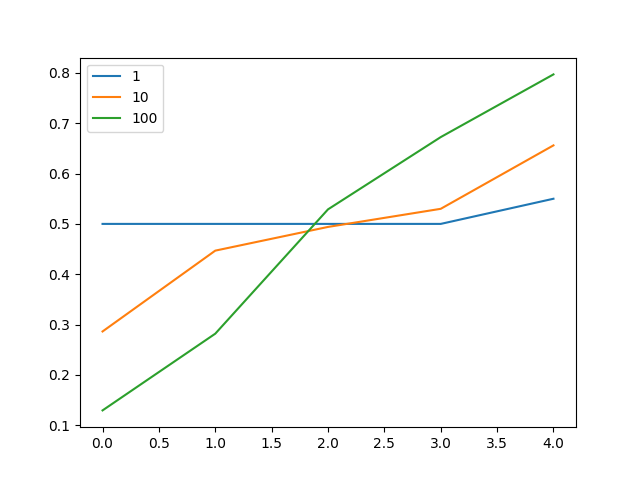
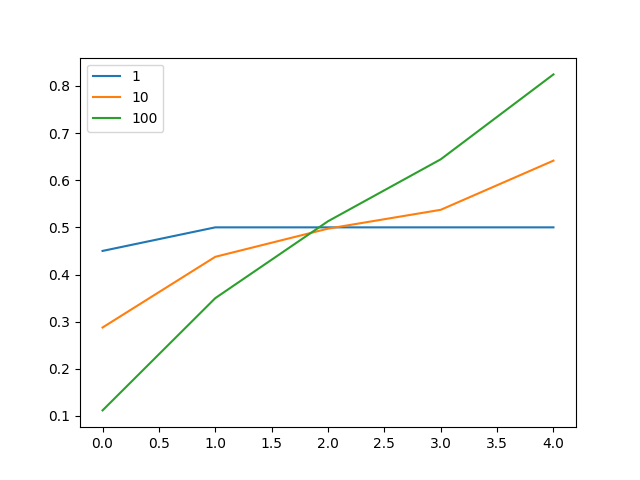
finished section 6.2

diff --git a/Temporal-Difference Learning/random_walk.py b/Temporal-Difference Learning/random_walk.py
@@ -3,6 +3,7 @@
 import numpy as np
 import matplotlib.pyplot as plt
 
+runs = 100
 episodes = 100
 gamma = 1
 
@@ -12,22 +13,23 @@ class WalkMRP():
         self.state = 3 # 'C'
         self.np_random = np.random.RandomState()
 
+        self.true_values = np.array([0, 1/6, 2/6, 3/6, 4/6, 5/6, 0])
+
     # returns reward, done
     def step(self):
         step = self.np_random.choice([-1, 1])
         self.state += step
         if self.states[self.state] == 'One':
-            self.state = 2 # reset
+            self.state = 3 # reset
             return 1, True
         if self.states[self.state] == 'Zero':
-            self.state = 2 # reset
+            self.state = 3 # reset
             return 0, True
         return 0, False
 
-def td(alpha):
-    env = WalkMRP()
-    V = np.zeros(len(env.states))
-    V[1:-1] = 0.5
+# generator that yields the value function at each step of the episode
+# td(0) prediction
+def td_episodes(V, env, alpha):
     for episode in range(episodes):
         done = False
         state = env.state
@@ -41,10 +43,59 @@ def td(alpha):
 
             V[state] += alpha*td_error
             state = next_state
+        yield V[1:-1]
+
+# every visit monte-carlo prediction
+def mc_episodes(V, env, alpha):
+    for episode in range(episodes):
+        trajectory = get_mc_trajectory(env)
+        G = 0
+        for i in range(len(trajectory)-1, -1, -1): # for each step in trajectory, from last to first
+            state, reward = trajectory[i]
+            G = reward + gamma*G
+            V[state] += alpha*(G - V[state])
+        yield V[1:-1]
+
+def get_mc_trajectory(env):
+    trajectory = []
+    done = False
+    while not done:
+        state = env.state
+        reward, done = env.step()
+        trajectory.append((state,reward))
+    return trajectory
+
+def td(alpha):
+    env = WalkMRP()
+    V = np.zeros(len(env.states))
+    V[1:-1] = 0.5
+    epi_gen = td_episodes(V, env, alpha)
     
+    for episode,v in enumerate(epi_gen):
         if (episode+1) in [1,10,100]:
-            plt.plot(range(5), V[1:-1], label=str(episode+1))
+            plt.plot(range(5), v, label=str(episode+1))
+    
     plt.legend()
     plt.show()
 
-td(.1)
+
+def plot_error(alpha, gen_fn, name):
+    rms_error = np.zeros((runs,episodes))
+    for run in range(runs):
+        env = WalkMRP()
+        V = np.zeros(len(env.states))
+        V[1:-1] = 0.5
+        epi_gen = gen_fn(V, env, alpha)
+        for episode,v in enumerate(epi_gen):
+            rms_error[run, episode] = np.sqrt(np.average((v - env.true_values[1:-1])**2))
+    plt.plot(range(episodes), np.average(rms_error, axis=0), label=name+str(alpha))
+
+
+for alpha in [.05, .1, .15]:
+    plot_error(alpha, td_episodes, "td ")
+
+for alpha in [.01, .02, .03, .04]:
+    plot_error(alpha, mc_episodes, "mc ")
+
+plt.legend()
+plt.show()
